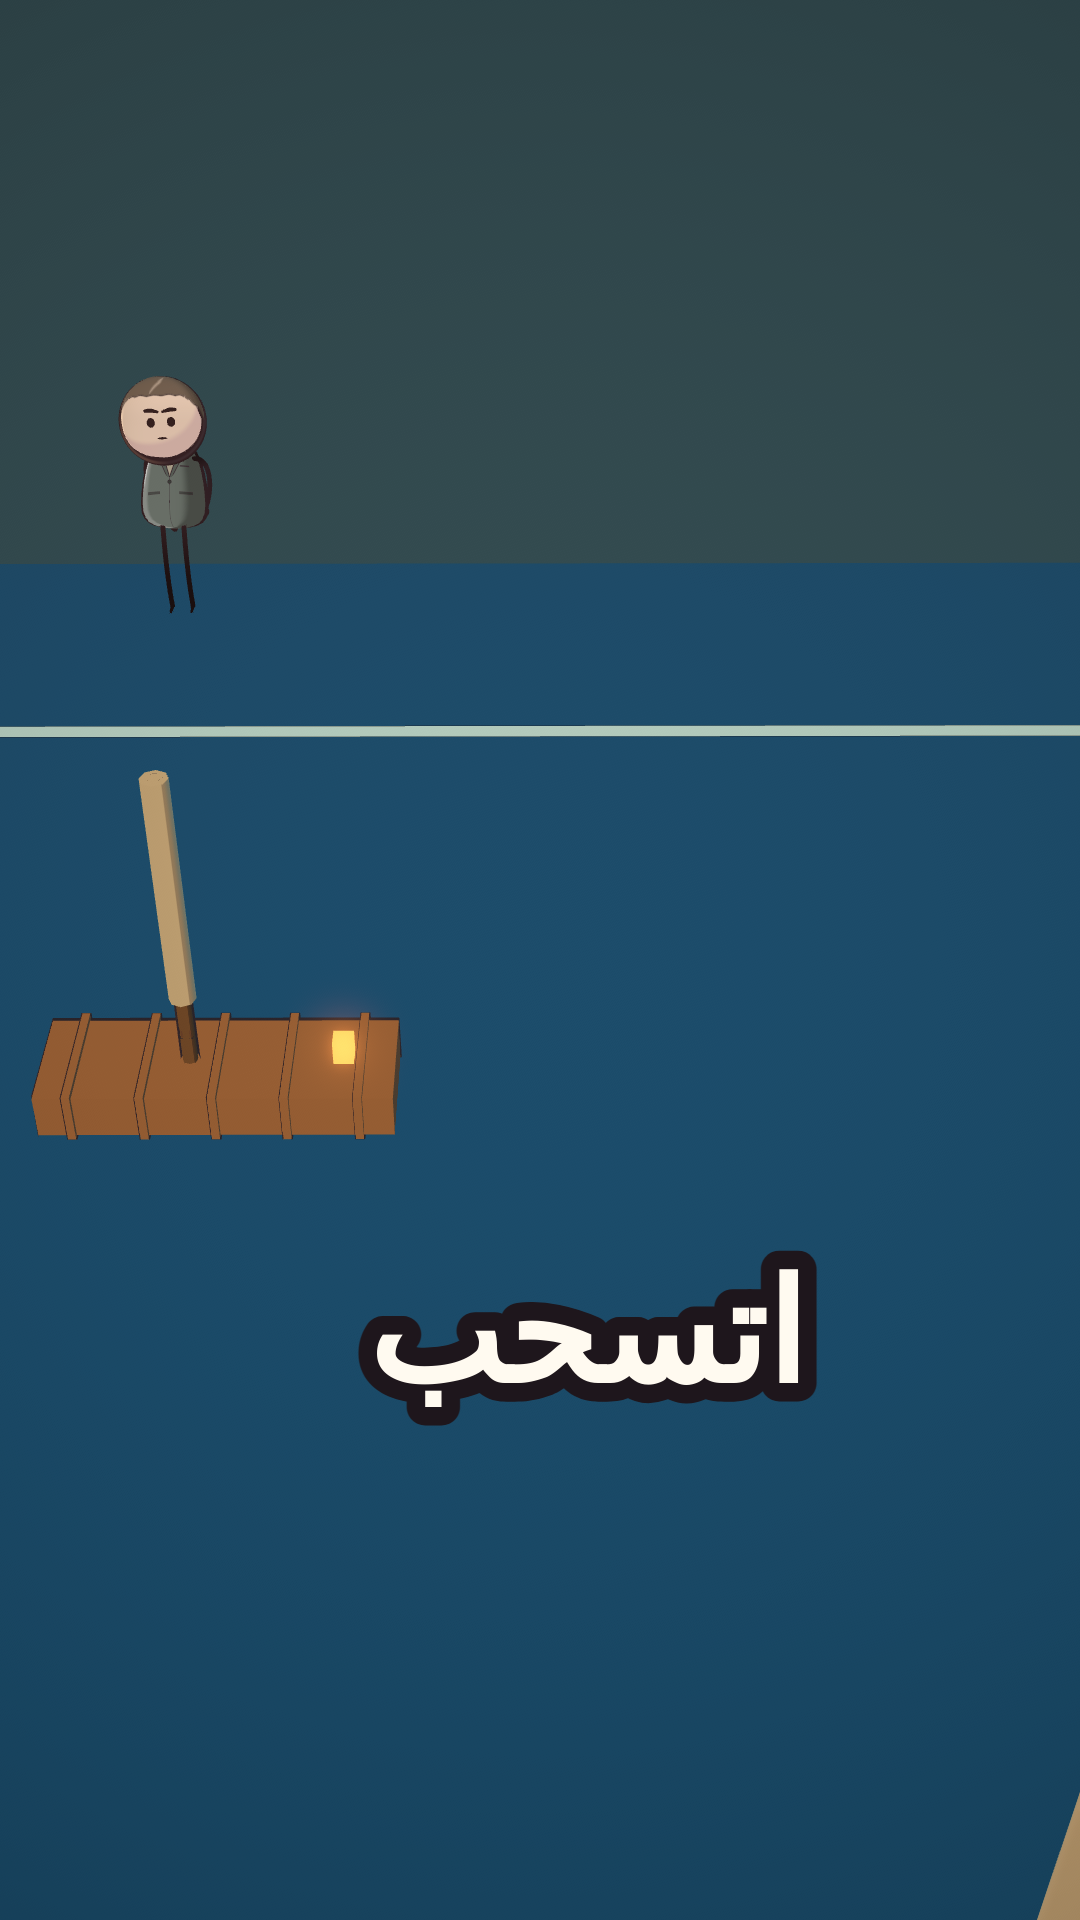
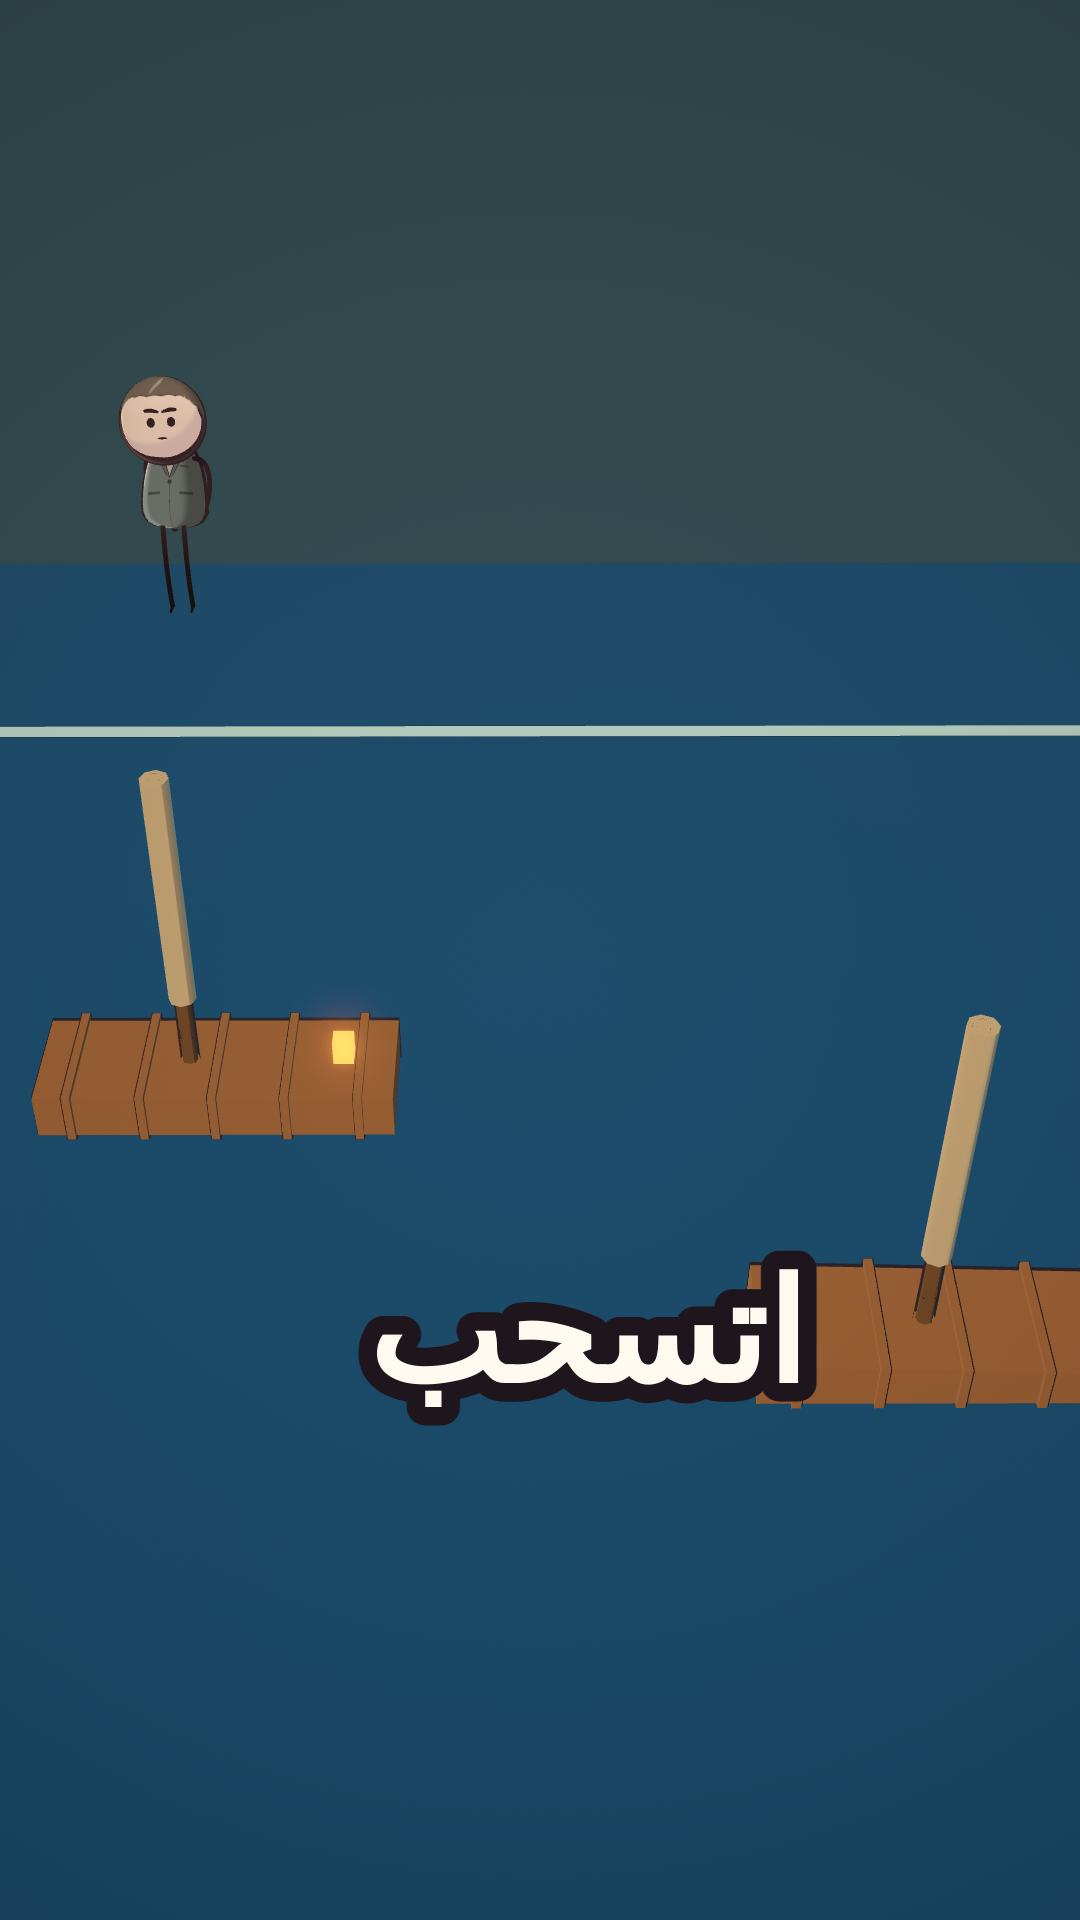
fudai-wall phase 32 VERDICT: CLOSED - SH17 CAMERA component on FIXED data (Hydrogen seat candidate stands, application 6f3a00a): staging F1197 PASS 381px (seat 381 EXACT, invariant + sea_sheet rider held), F1215 PASS 449px centre IN (seat 450); D1/D2 PASS - ZERO lines, output byte-identical to basel

Changed region(s): [[0.7333, 0.5312, 1.0, 0.75], [0.9472, 0.9375, 1.0, 1.0], [0.6722, 0.6562, 0.7028, 0.6875]]

diff --git a/projects/fudai-wall/RUN_RECORD.md b/projects/fudai-wall/RUN_RECORD.md
@@ -1079,3 +1079,19 @@ Chunk 2 is fully dispositioned: every cause is CLOSED (sign text, calendar, SH09
 - **STILL VERDICT — both boats render at their settled positions (MEASURED + eye):** hull-brown pixel count (one transient sampler, same counter both sides): **F1215: 0 px (baseline still) → 11,508 px (new still)** — hull geometry with lit lanterns now renders at the frame's lower edges where phase 29/30 measured literally nothing but the two flat band colours; **F1197: 39,480 px (baseline) → 47,436 px (new)** — boat_a's whole tilted hull + lantern reads at lower-left. Driver eye on both stills agrees: F1197 boat_a whole at lower-left (foam line + caption «اتسحب»); F1215 hull fragments at both lower corners (caption «لورا»). Pixel detail/flat (baseline camera): F1197 7.6/91.2, F1215 3.5/95.7 — flat frames, a composition fact of the baseline camera, not of this data cause. Acceptance #2 MET.
 - **VERDICT — PHASE 31: CLOSED.** The SH17 data cause is fixed at its cause and fleet-verified: engine-truth now matches the audit's credited positions. **What remains of cause 8 is exactly what phase 30 scoped next: the CAMERA component on fixed data** — under the baseline camera boat_b's centre still projects below the frame (phase-30 measurement, engine pv NDC y −1.17; the staging audit's F1215 line stands FAIL 634 px out), so a camera round follows on the fixed data, with the phase-29 candidate (which centred the audit position at 449 px) as live evidence to re-judge. That round is NOT part of this phase. The audit's known blindness (field-wise merge vs governing-key wholesale) stands recorded from phase 30; amending the audit remains the dispatcher's call, not taken here.
 - **§11 metrics (phase 31):** seat calls 1 (GLM, one output, applicable verbatim — no corrective re-prompt) · applications 1 (`74f86c1`) · fleet dispatches 3 (track + 2 stills, all SUCCESS) · audit runs 2 (staging + D1/D2) · transient analysis scripts ×2 (track reader + hull-pixel counter; created/run/deleted) · local renders 0. **§12 STATUS BOARD (phase 31):** N=0 · A=0 · Q=0 · **C=1 CLOSED (the SH17 data cause — both boats' rot keys)** · F=0 · P=1 PARKED (F1188, untouched) · R=0 · cause 8's camera component OPEN as the next round on fixed data. State: HEAD at this verdict commit; chunk 3 staging **34/40** (coded audit; F1215's line is the open camera component); **D1/D2 PASS — zero lines**; F590 + SH11 untouched (closed by decision); Colab LOCKED; no local renders; no driver-authored code (the film.js change is the GLM seat's verbatim output).
+
+## Phase 32 — cause 8 CAMERA component re-judged on FIXED data: the phase-29 candidate now passes the render layer too — CLOSED (2026-11-23 ~15:0x EET → complete)
+
+- **Standing order:** re-judge the phase-29 Hydrogen candidate on the phase-31 fixed data, under the hard gate. This application cites the previous verdict commit `af84f83` (phase-31 VERDICT: SH17 DATA FIX CLOSED; tree at the last judged state). Application record: `P32_CAUSE8_SH17_APPLY.md` (application commit `6f3a00a`). The candidate is the phase-29 candidate VERBATIM — no new seat call, no iteration, no hand-authored correction: phase 29 judged it coded-PASS / render-FAIL on data phase 30 proved faulty (both boats held at the world origin by their rot-only keys) and phase 31 fixed; the open question of this round was the render layer alone. **NO LOCAL RENDERS; Colab LOCKED; SH26's line DO-NOT-TOUCH (untouched throughout); F1188 parked — its reading stands untouched (verified below); F590 + SH11 closed by decision — not reopened.**
+- **Baseline re-measured by this driver on HEAD `af84f83` (own audit runs, reproducing phase 31 byte-identical):** F1188 FAIL sea_sheet pull 0 >= 6 (parked); F1197 PASS boat_sh17_a 509px in frustum + sea_sheet state rider PASS pull 14 >= 12; F1215 FAIL boat_sh17_b 634px out of frustum; D1/D2 PASS — ZERO lines; chunk 3 FAIL (6/40 moments) → staging 34/40; chunk 2 untouched.
+- **Candidate applied verbatim** (application `6f3a00a`): `chunk3Shot('SH17','line:15.start','line:15.end','SEA',[[-6,13.5,19],[-2,0,2]],[[2,12.5,18],[0,0,2]],48)` — world pos [-6,13.5,-25] → [2,12.5,-26]; target [-2,0,-42] → [0,0,-42]; fov 48. Design: the camera path pulled ~4 units seaward with the aim shallowed to world z −42 at both ends and fov widened 44→48, so boat_b's centre enters the late frame while boat_a holds at mid-shot.
+- **Staging audit on the applied tree — measured vs the seat's predicted readings, line by line:**
+  - **F1197: seat PASS 381px → measured PASS 381px in frustum, sea_sheet rider PASS pull 14 >= 12 — AGREE, EXACT** (identical to phase 29's coded reading; the invariant holds).
+  - **F1215: seat PASS, centre IN, 450px → measured PASS 449px in frustum — AGREE** (−1px vs predicted; identical to phase 29's coded reading). The cause's coded fault (centre out, 634px under the baseline camera) is cured in the audit.
+  - **No-other-moment discipline HELD:** full staging-output diff vs baseline = the F1197 + F1215 lines + the chunk-3 total (6 FAIL → 5 FAIL). **F1188's line is byte-identical (parked reading untouched); chunk 2 untouched; SH26 untouched.**
+- **D1/D2 audit on the applied tree — AGREE, exact:** **PASS — ZERO lines** (exit 0), output byte-identical to the baseline output. The seat's D2-CLEAR prediction (0 hits — the segment stays strictly inside the SEA place) reproduces in the coded audit.
+- **Fleet re-probes 2/2 SUCCESS** (F1197 run 45180402126, F1215 run 45180407799; bootError null, suiteErrors [], framesCaptured 1, framesNull 0 each; stills in `probes/chunk3/stills/`, run artifacts in `probes/chunk3/fleet_45180402126/` + `fleet_45180407799/`). **Pixel measurements (the gate's measurement layer only — the gate's moment table covers chunk 2, so no gate verdict exists for these frames and none is claimed):** F1197 detail 9.9% / flat 87.8% (phase 29 under the same camera on broken data: 8.4/89.9); F1215 detail 7.2% / flat 90.7% (phase 29: 2.7/96.9 — the rise is the boats' geometry now present in frame).
+- **Hull-pixel count (one transient sampler, this phase; calibrated on the phase-31 stills before use — it reads 49,258 where phase 31's own counter read 47,436 on the same F1197 still, same order):** **F1215: 81,317 hull-coloured px** (phase 29, same camera, broken data: **0** by that phase's counter — flat bands only); **F1197: 75,373 px**. The count corroborates the eye; it does not replace it.
+- **Driver eye — THE LAYERS AGREE THIS TIME (the phase-29 lesson applied: the eye is the gate):** **F1215 — boat_b is VISIBLE, whole and unambiguous:** its full brown planked hull with mast and lit lantern reads at centre-right, tilted at its settled rot, beside the caption «لورا»; boat_a's hull reads at the left edge (edge-clipped — its declared moment is F1197, where it is whole); the shore figure stands whole at upper left. The declared subject that phase 29's render did not contain at all is present and centred under this camera on the fixed data. **F1197 — the invariant holds by eye as well as by audit:** boat_a WHOLE at left-centre (hull, mast, lit lantern), the foam line across frame, boat_b's hull entering large at the right edge, caption «اتسحب», shore figure whole. **Composition notes for the chunk-3 critic round (not faults of this cause):** both frames remain flat-band dominated (§5 board-stage question, same family as the SH13/SH16/SH25 notes); at F1215 boat_a is edge-clipped at the left and boat_b's hull sits low against the caption zone.
+- **VERDICT — CAUSE 8 (SH17) CLOSED IN FULL.** The data component closed in phase 31; the camera component closes here: the candidate passes the staging audit (F1215 449px centre IN, F1197 invariant exact), D1/D2 (zero lines, byte-identical), the fleet render (2/2 SUCCESS) and the eye (boat_b actually visible in the rendered F1215 — the exact test phase 29 failed). The application STANDS. Cause 8's three-phase arc is the run's cleanest demonstration of the audit's standing lesson: the coded gate is necessary, not sufficient — phase 29's eye caught what the audit could not see, phase 30 named the mechanism in the data, phase 31 fixed the data, and only then did the same camera candidate become true at every layer.
+- **§11 metrics (phase 32):** seat calls 0 (the phase-29 Hydrogen candidate re-judged as live evidence — no new authoring) · applications 1 (`6f3a00a`, stands) · fleet dispatches 2 (2 SUCCESS, 0 failed) · audit runs: baseline + applied, with full-output diffs at each gate (staging diff = 3 lines; D1/D2 PASS zero lines → PASS zero lines, output byte-identical) · pixel measurements ×2 (detail/flat) · transient hull sampler ×1 (calibrated on phase-31 stills, then applied to both new stills; created/run/deleted) · eye ×2 stills. Seat arithmetic vs the audits (from phase 29, reproduced exactly): F1197 381 vs 381px EXACT; F1215 449 vs 450px; D2-CLEAR 0 hits exact. **§12 STATUS BOARD (phase 32):** N=0 · A=1 (application stands) · Q=0 · **C=1 CLOSED (cause 8 SH17 — camera component; cause 8 now closed in full: data phase 31 + camera phase 32)** · F=0 · P=1 PARKED (F1188, untouched) · R=0. State: HEAD at this verdict commit; chunk 3 staging **35/40** (FAIL 5/40); **D1/D2 PASS — zero lines (fully clean)**; F590 + SH11 untouched (closed by decision); Colab LOCKED; no local renders; no driver-authored code (film.js carries the seat's line verbatim; the audits untouched). **Remaining chunk-3 FAIL moments (5): F1188 [parked], F1302, F1335 (SH18), F1410, F1428 (SH19) — SH18/SH19 briefed for the Hydrogen seat; plus item 17 (SH04 cast).**
